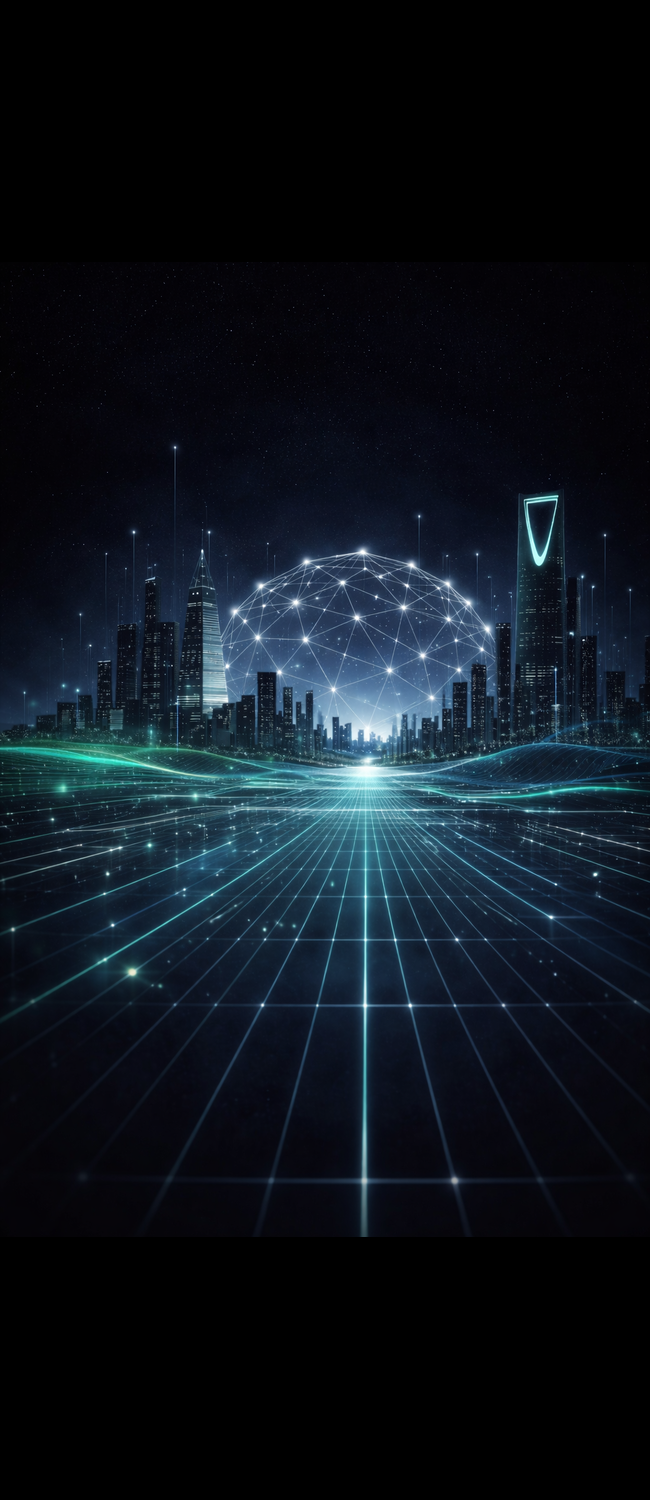
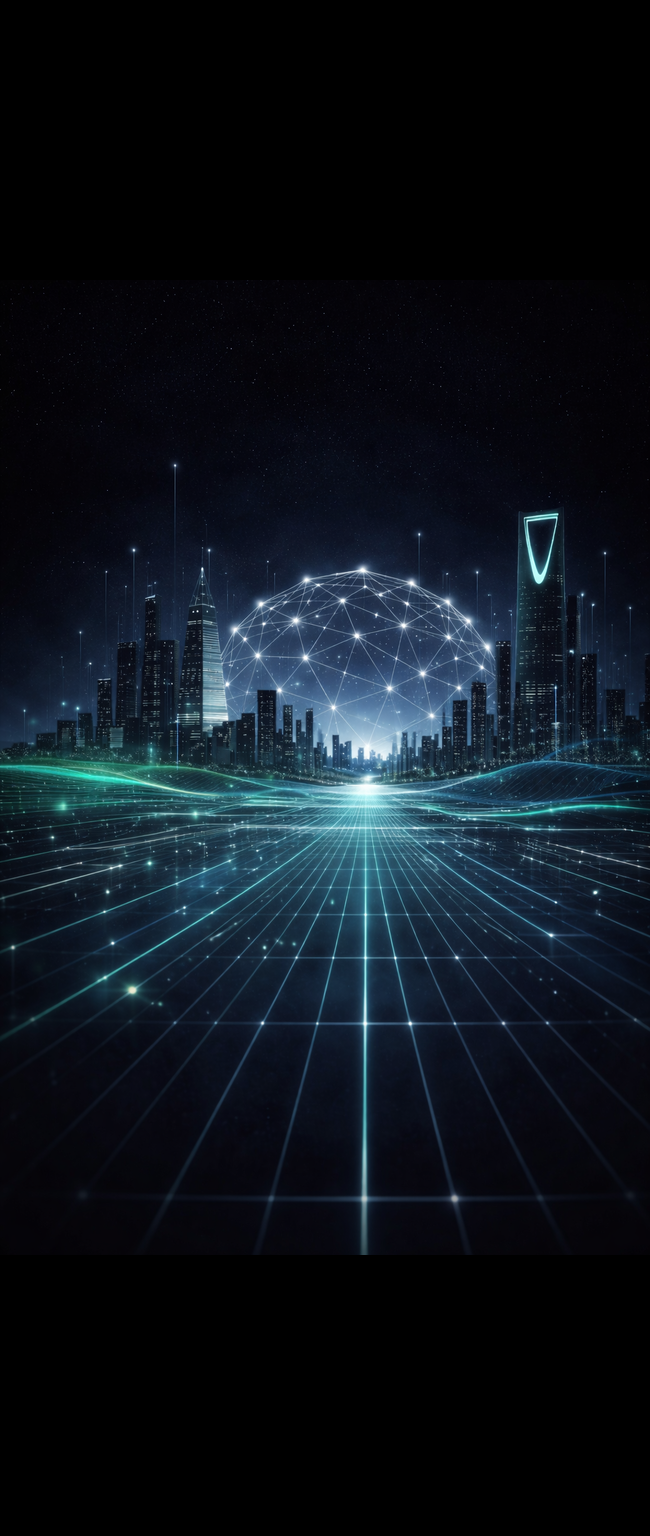
updates

diff --git a/src/components/layout/GlobalFooter.tsx b/src/components/layout/GlobalFooter.tsx
@@ -355,7 +355,7 @@ const GlobalFooter: React.FC = () => {
       </footer>
 
       {showScrollTop && (
-        <button onClick={scrollToTop} className={`gf-scroll-top fixed bottom-6 w-12 h-12 flex items-center justify-center rounded-2xl z-50 bg-gradient-to-br from-[#8f93a5] to-[#5c6070] text-white shadow-xl md:hidden ${isRTL ? 'right-6' : 'left-6'}`}>
+        <button onClick={scrollToTop} className={`gf-scroll-top fixed bottom-6 w-12 h-12 flex items-center justify-center rounded-2xl z-50 bg-gradient-to-br from-[#8f93a5] to-[#5c6070] text-white shadow-xl md:hidden ${isRTL ? 'left-6' : 'right-6'}`}>
           <ArrowUp className="w-6 h-6" />
         </button>
       )}
